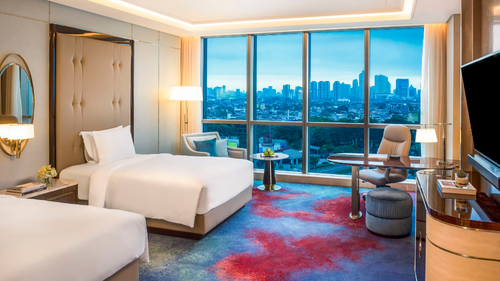
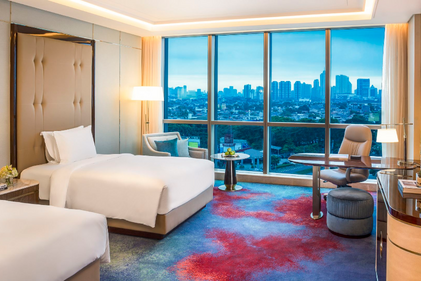
added

diff --git a/src/app/components/rooms/page.js b/src/app/components/rooms/page.js
@@ -10,10 +10,10 @@ const Rooms = () =>{
 
         <h5 className='text-3xl font-semibold text-center mb-2'>Best Rooms</h5>
         <h5 className='text-sm text-[#ffa000] mb-10 text-center'>The Luxury Hotel</h5>
-        <div className="grid lg:grid-cols-3 md:grid-cols-2 grid-cols-1 justify-center items-center mx-auto w-full md:w-[80%] gap-5 px-2">
+        <div className="grid lg:grid-cols-4 md:grid-cols-2 grid-cols-1 justify-center items-center mx-auto w-full  gap-5 px-3 lg:w[80%]">
             
-            <div className="border-2 border-gray-100 hover:-translate-y-1 hover:scale-110 hover:shadow-md duration-300 hover:rounded-md">
-                <img src='room1.jpg' className='h-[21rem] md:h-[23rem] hover:rounded-md'/>
+            <div className="border-2 border-gray-100  hover:-translate-y-1 hover:scale-110 hover:shadow-md duration-300 hover:rounded-md">
+                <img src='room1.jpg' className='w-full hover:rounded-md'/>
                 <div className='p-5'>
                     <h5 className="text-2xl font-semibold">Deluxe Dark Room</h5>
                 <p className="text-gray-600 mt-5">{`3 adult(s) and 2 child(ern)`}</p>
@@ -22,7 +22,7 @@ const Rooms = () =>{
                 </div>
             </div>
             <div className="border-2 border-gray-100 hover:-translate-y-1 hover:scale-110 hover:shadow-md duration-300 hover:rounded-md">
-                <img src='/room2.jpg' className='h-[23rem] hover:rounded-md'/>
+                <img src='/room2.jpg' className='  hover:rounded-md'/>
                 <div className='p-5'>
                     <h5 className="text-2xl font-semibold">Deluxe Dark Room</h5>
                 <p className="text-gray-600 mt-5">{`3 adult(s) and 2 child(ern)`}</p>
@@ -31,11 +31,22 @@ const Rooms = () =>{
                 </div>
             </div>
             <div className="border-2 border-gray-100 hover:-translate-y-1 hover:scale-110 hover:shadow-md duration-300 hover:rounded-md">
-                <img src='/room3.png' className='h-[23rem] hover:rounded-md'/>
+                
+                <img src='/room5.png' className=' hover:rounded-md'/>
+              
                 <div className='p-5'>
                     <h5 className="text-2xl font-semibold">Deluxe Dark Room</h5>
                 <p className="text-gray-600 mt-5">{`3 adult(s) and 2 child(ern)`}</p>
                 <p className="text-gray-600 mt-5">{`"Deluxe Dark Room" - A sleek, upscale space with sophisticated ambiance and low lighting, catering to various experiences.`}</p>
+                <button className='w-full py-3 border-2 border-[#ffa000] mt-5 hover:bg-[#ffa000] hover:text-white duration-300'> Book Now</button>
+                </div>
+            </div>
+            <div className="border-2 border-gray-100 hover:-translate-y-1 hover:scale-110 hover:shadow-md duration-300 hover:rounded-md">
+                <img src='room1.jpg' className=' hover:rounded-md'/>
+                <div className='p-5'>
+                    <h5 className="text-2xl font-semibold">Deluxe Dark Room</h5>
+                <p className="text-gray-600 mt-5">{`3 adult(s) and 2 child(ern)`}</p>
+                <p className="text-gray-600 mt-5">{`Deluxe Dark Room" - A sleek, upscale space with sophisticated ambiance and low lighting, catering to various experiences.`}</p>
                 <button className='w-full py-3 border-2 border-[#ffa000] mt-5 hover:bg-[#ffa000] hover:text-white duration-300'> Book Now</button>
                 </div>
             </div>

diff --git a/src/app/components/banner/page.js b/src/app/components/banner/page.js
@@ -12,7 +12,7 @@ export default function Banner() {
             <h4 className='md:text-5xl text-2xl font-semibold text-center uppercase'>
           Wellcome to our Heaven-Dearm
             </h4>
-            <span className='text-gray-300 text-center text-sm md:text-xl w-full md:w-[50%]'>
+            <span className='text-gray-300 text-center text-sm md:text-xl w-full lg:w-[50%]'>
             We are thrilled to extend a warm invitation to you, inviting you to experience the epitome of luxury and comfort at Haver Dream. 
             </span>
             <div className='text-white flex justify-center items-center gap-5 mt-8'>
@@ -20,7 +20,7 @@ export default function Banner() {
                 <button className='border-2 border-white px-6 py-2 md:px-12 md:py-4 font-bold rounded-full hover:bg-white hover:text-[#ffa000] duration-300'>See-room</button>
             </div>
             <div className='text-3xl font-semibold absolute bottom-10 flex rounded-lg'>
-            <span className='bg-[#0f172b] text-sm md:text-4xl font-semibold px-4  md:px-14 flex justify-center items-center gap-2 hover:bg-gray-200 hover:text-[#ffa000] duration-300'><span className='animate-pulse '> <FaPhoneVolume /> </span> <span>Call Now</span> </span>
+            <span className='bg-[#0f172b] text-sm md:text-3xl font-semibold px-4  md:px-14 flex justify-center items-center gap-2 hover:bg-gray-200 hover:text-[#ffa000] duration-300'><span className='animate-pulse '> <FaPhoneVolume /> </span> <span>Call Now</span> </span>
             <span className='bg-white text-black text-xl md:px-14 md:text-4xl font-semibold p-4 '>+880-1#72#52#848</span>
           
         </div>

diff --git a/src/app/components/facilities/page.js b/src/app/components/facilities/page.js
@@ -54,7 +54,7 @@ const facilities = [
         <div className="mt-32 mb-32">
         <h5 className="text-center text-3xl font-bold">Facilities </h5>
         <h5 className="text-sm text-[#ffa000] mb-10 text-center">Our Survices</h5>
-        <div className=" grid grid-cols-1 md:grid-cols-2 lg:grid-cols-3 w-full md:w-[80%] mx-auto px-2 gap-8 ">
+        <div className=" grid grid-cols-1 md:grid-cols-2 lg:grid-cols-3 w-full md:w-[90%] lg:w-[80%] mx-auto px-2 gap-8 ">
             {
                 facilities.map(facilitie => <FacilitiesCard facilitie={facilitie} key={facilitie.id}/>)
             }

diff --git a/src/app/components/naveBr/page.js b/src/app/components/naveBr/page.js
@@ -15,7 +15,7 @@ const Navbr = () =>{
     return(
         <>
        
-        <nav className="bg-[#0f172b] top-0 text-white shadow-lg p-4 flex md:flex-row flex-row-reverse md:justify-around items-center w-full fixed z-20">
+        <nav className="bg-[#0f172b] top-0 text-white shadow-lg p-4 flex md:flex-row flex-row-reverse md:justify-around items-center w-[100%] fixed z-20">
       <div className=" text-xl h-full  font-semibold md:mb-0">
      <Image src='/logo3.png' width={240} height={240} alt="logo">
 

diff --git a/src/app/components/footer/page.js b/src/app/components/footer/page.js
@@ -7,7 +7,7 @@ const Footer = () => {
     return (
         <>
             <div className="bg-[#0f172b] text-white flex justify-center items-center flex-col">
-                <div className="grid grid-cols-1 md:grid-cols-2 lg:grid-cols-3 gap-12 w-full md:w-[80%] p-5 md:p-20">
+                <div className="grid grid-cols-1 md:grid-cols-3 gap-12 w-full lg:w-[80%] p-5 md:p-20">
 
                     <div className="flex flex-col">
 
